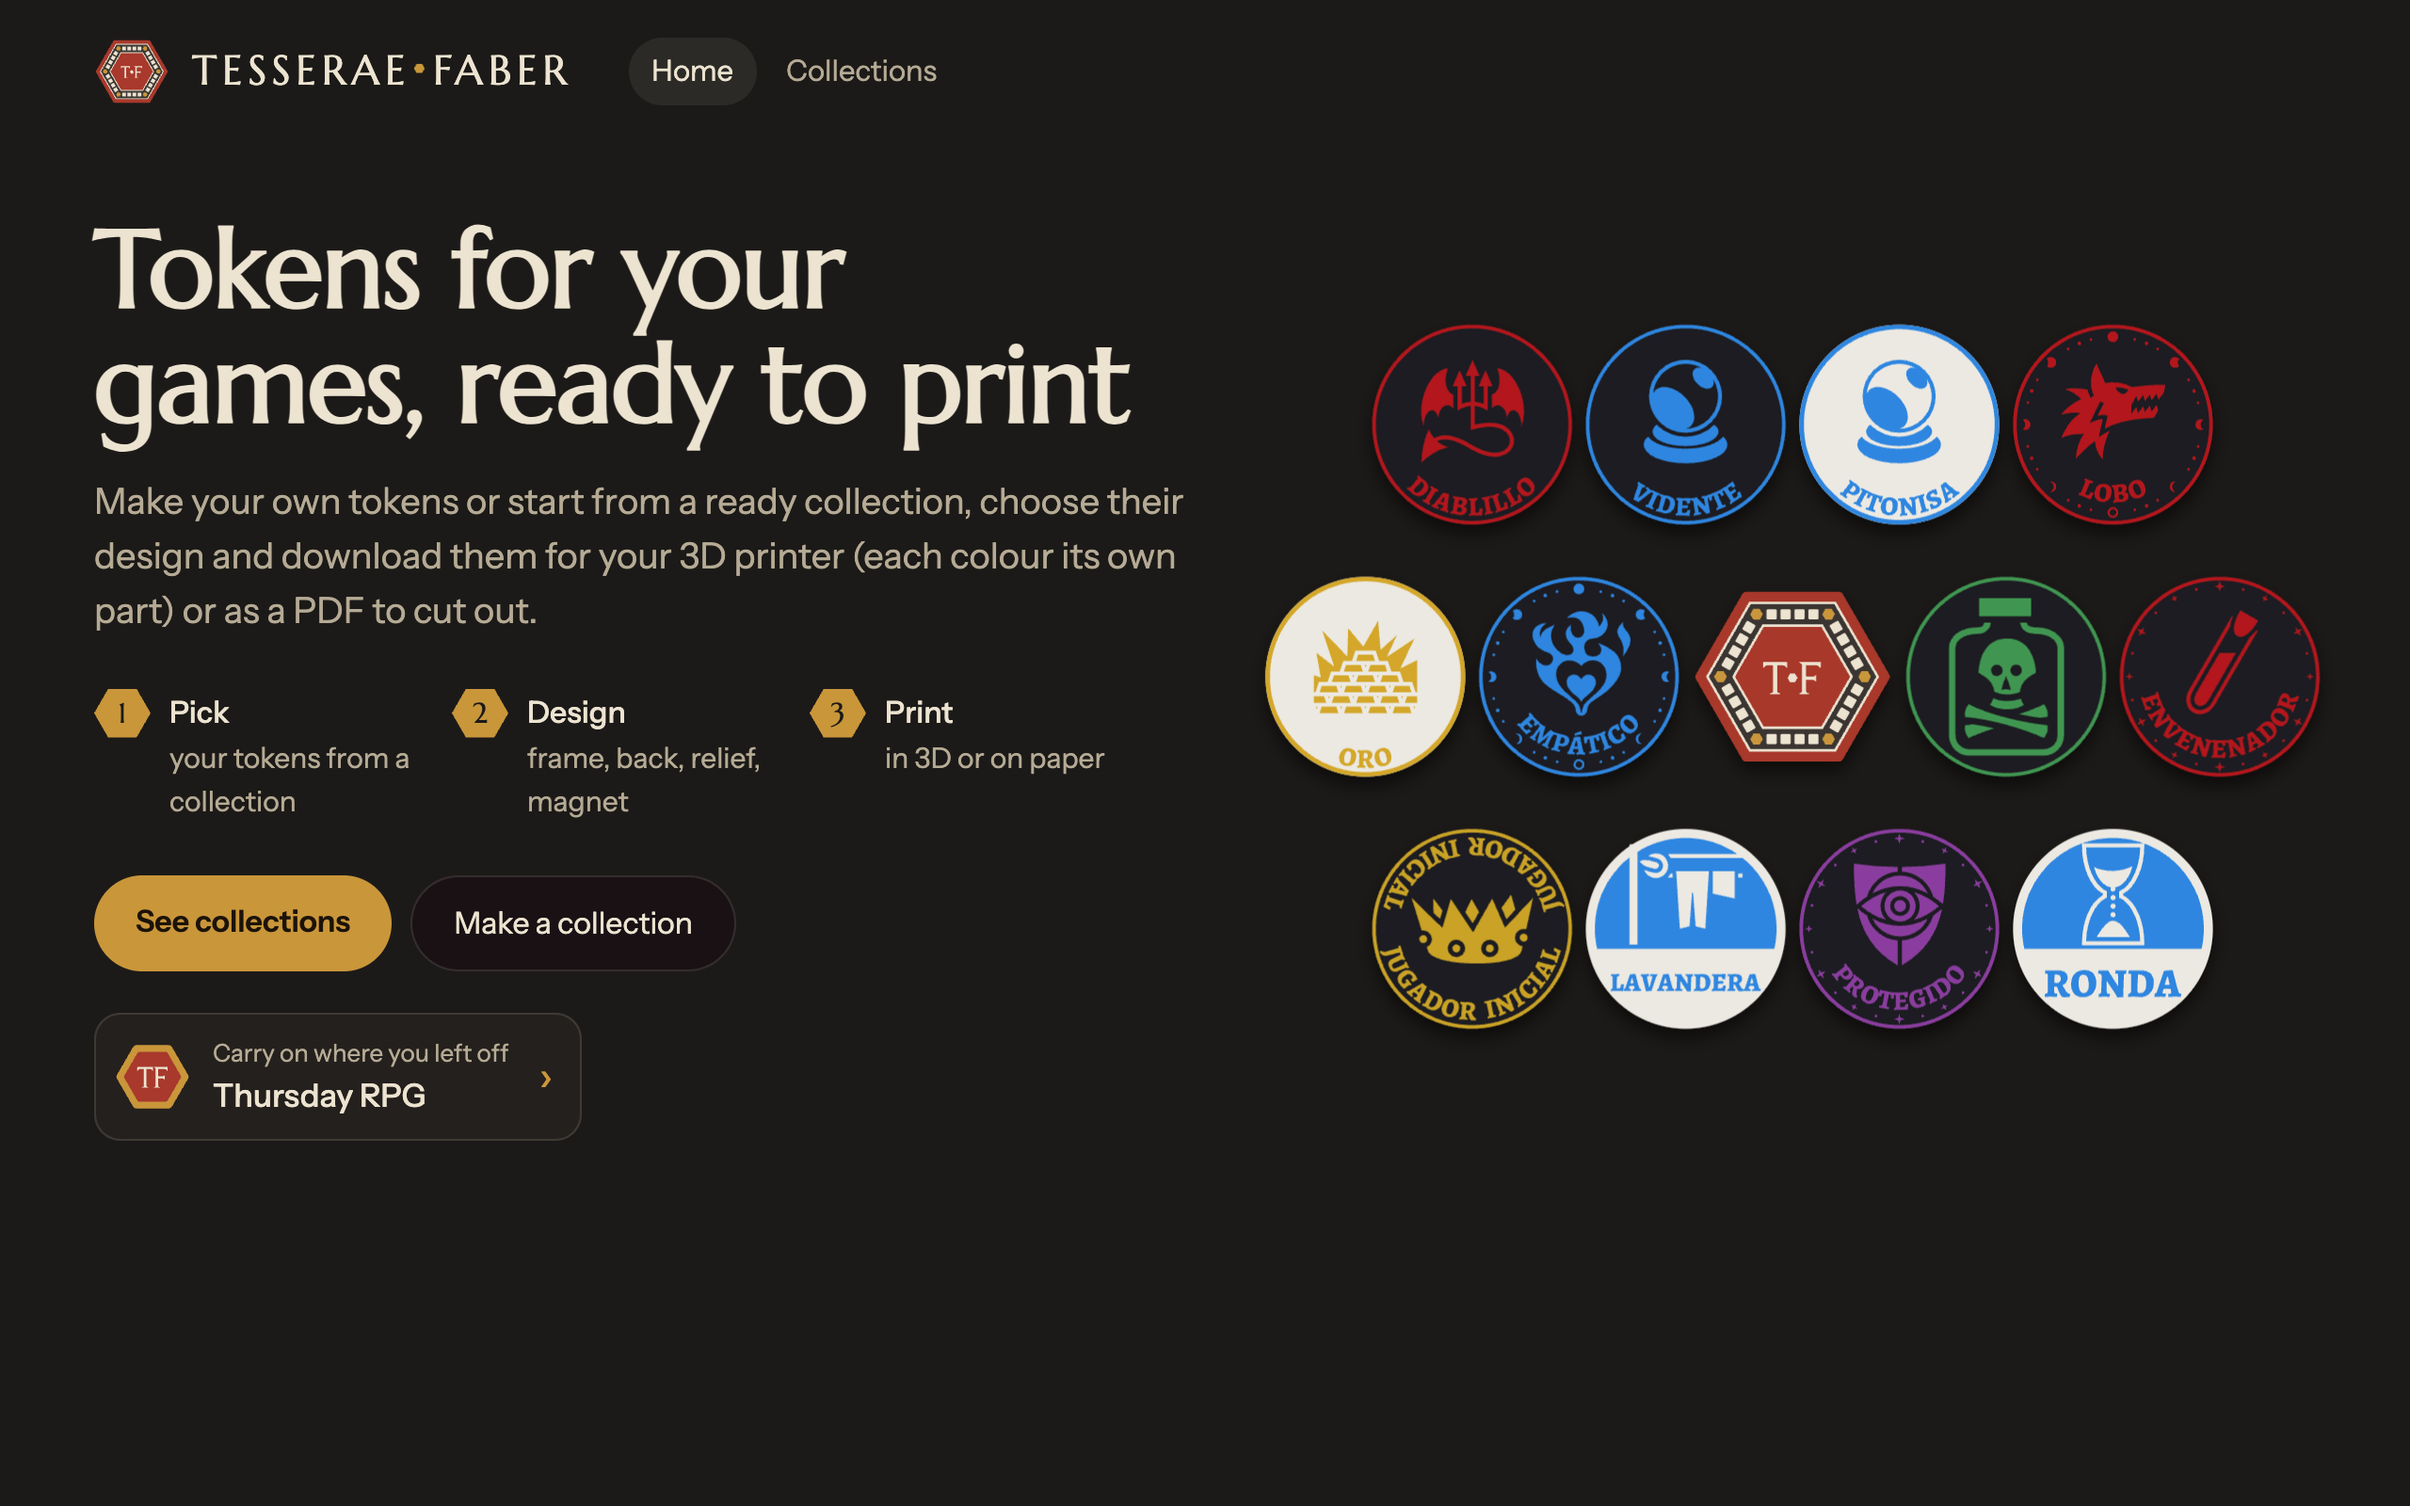
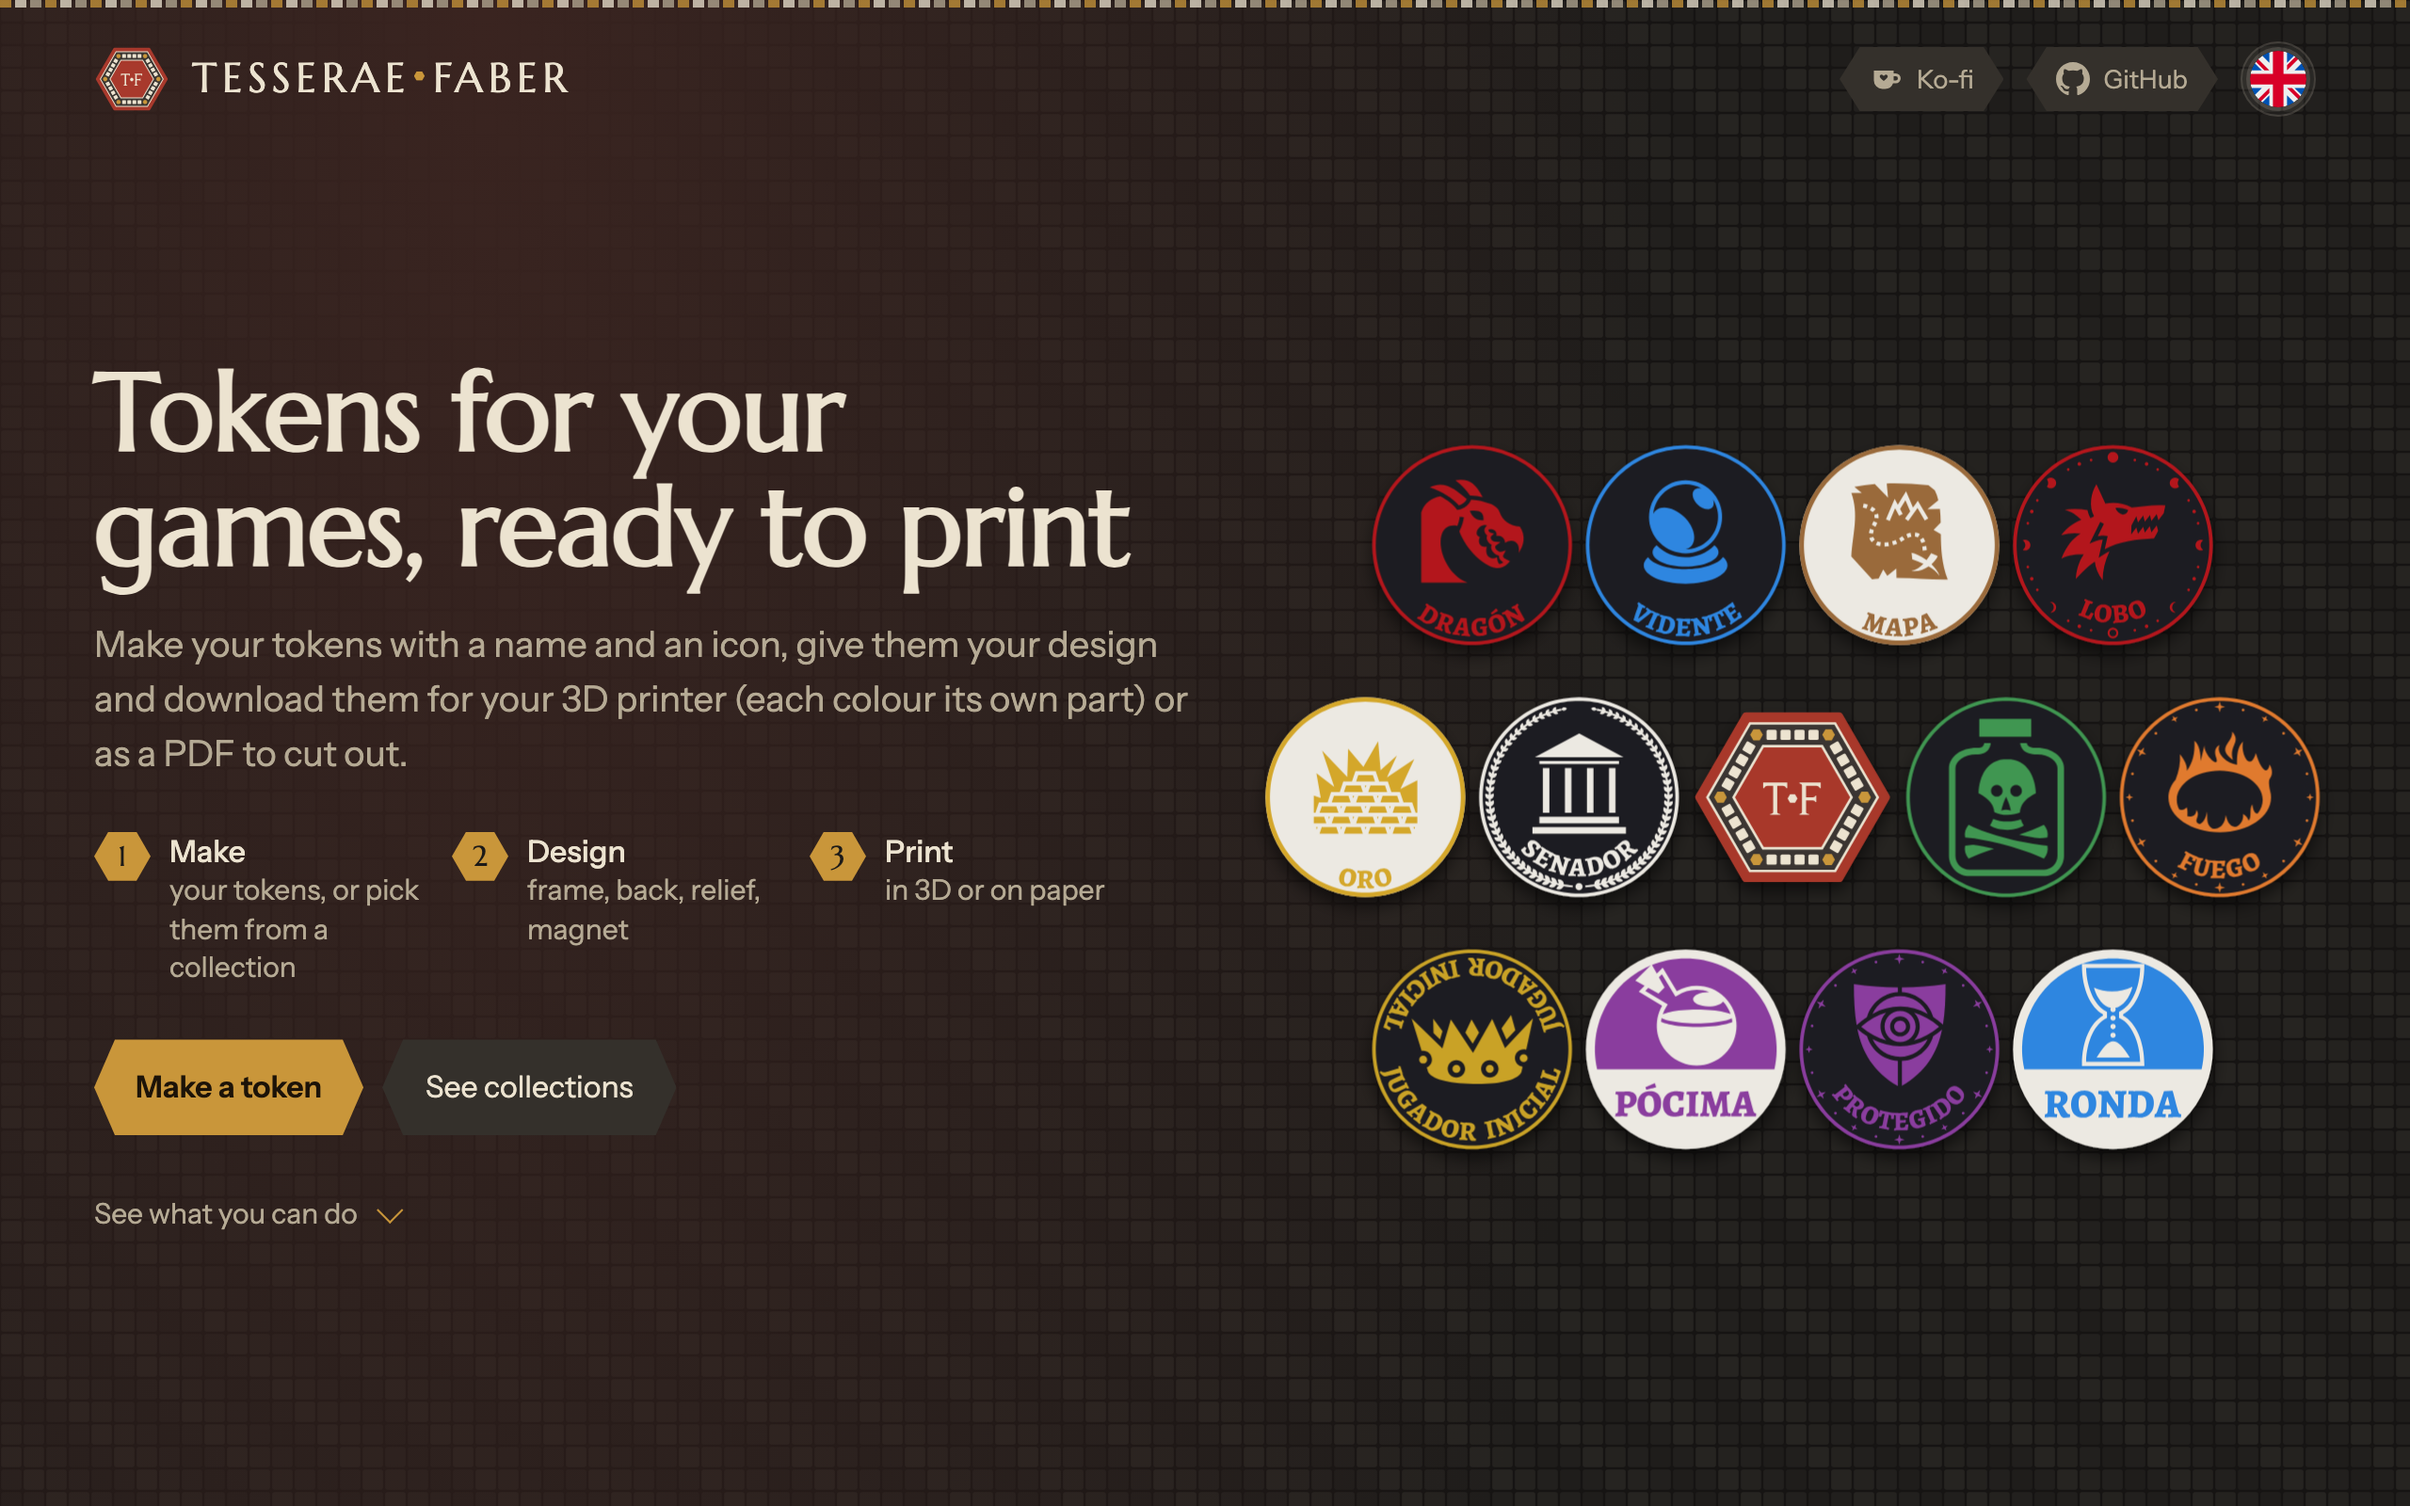
README follows the home as it is now: Make · Design · Print, making your tokens first (or a ready collection), the shapes, designing them (backs too) and printing, in the home's words; its picture taken again.

Changed region(s): [[0.0, 0.0, 1.0, 0.6562], [0.5, 0.2188, 0.9688, 0.7812], [0.0312, 0.6875, 0.25, 0.8125]]

diff --git a/README.md b/README.md
@@ -6,7 +6,7 @@
 
 <p align="center">
   <strong>Tokens for your games, ready to print.</strong><br>
-  Make your own tokens or start from a ready collection, choose their design and download them<br>
+  Make your tokens with a name and an icon, give them your design and download them<br>
   for your 3D printer (each colour its own part) or as a PDF to cut out.
 </p>
 
@@ -22,43 +22,63 @@
   <img src="docs/screenshots/tf-home.png" alt="Tesserae Faber's home: tokens for your games, ready to print" width="820">
 </p>
 
-## Pick · Design · Print
+## Make · Design · Print
 
-1. **Pick** your tokens: make them yourself (a name, an icon from game-icons.net or your own SVG, a colour group),
-   or tick them in a ready collection.
-2. **Design** them: colours, frame, background pattern, back, relief, a hole for a magnet. Change something and the
-   token changes at once.
-3. **Print** them: a Bambu Studio project with every colour on its filament, STL files for any printer, or an A4 PDF.
+1. **Make** your tokens, or pick them from a collection.
+2. **Design** them: frame, back, relief, magnet.
+3. **Print** them, in 3D or on paper.
 
-Free, no account, no ads: your collections and designs stay in your browser.
+## Make your tokens
 
-## Ready collections
+Name each token and find its icon among the thousands on [game-icons.net](https://game-icons.net), or upload your own
+SVG. Sort them into groups, each in its own colour.
 
-- ***El Senado***: a hidden-role game in Rome, adapted from Secret Hitler.
-- ***5e Fantasy***: conditions, spells and markers, from the SRD 5.2.
-- ***Draw Steel***: hero resources, Malice, Victories and conditions.
+Your tokens are kept in this browser, together in a collection you can give a name, a logo and colours. Export it to a
+file to share it or carry on on another device.
+
+**Or start from a ready collection**, with its tokens, its groups and designs made for it:
+
+- ***El Senado***: a hidden-role game in Rome.
+- ***5e Fantasy***: conditions, spells and markers.
+- ***Draw Steel***: hero resources and conditions.
 
 ## Coins, cards, rings and bases
 
+Not everything is a coin. A collection can have each kind, and each kind is designed and printed its own way.
+
 | | |
 |---|---|
-| **Coins** | 30 to 60 mm, with a front and a back |
+| **Coins** | 30 to 60 mm |
 | **Cards** | 85 × 55 mm, with their phrase, their icon and their back |
-| **Rings** | slip round a miniature's base (25 to 50 mm), the condition all the way round |
-| **Bases** | a tray the miniature stands in, with a number or a name on the tab |
+| **Rings** | slip round a miniature's base (25 to 50 mm), with its condition all the way round |
+| **Bases** | trays the miniature's base sits in, with a number or a name on the tab |
 
-## Your designs
+## Design them
 
-A design sets how every token looks at once. Make yours in **Your designs**, from scratch, from a template or from
-another of yours, and use it in any collection. Frames of all kinds (laurel, beads, runes, rope…), patterns, five
-layouts, a raised name, frame or icon to feel by touch, and a magnet open or hidden inside.
+A design sets how every token looks at once: colours, frame, lettering, back. Change something and the token changes
+at once: what you see is what you'll print.
 
-## Printing
+- Frames of all kinds: laurel, beads, runes, rope, moon phases…
+- Background patterns, such as harlequin, scales or quartered.
+- A raised name, frame or icon, to feel them by touch.
+- A hole for a magnet, open or hidden inside.
+- The back too: one for them all, so nobody can tell which token it is, or the token's other face, like a vote that
+  says yes on one side and no on the other.
 
-- **Bambu Lab A1 / A1 mini with AMS lite**: a ready `.3mf`, plates laid out, each part on its filament, magnet pauses
-  included, with the filament and time each plate will take.
-- **Any other printer**: STL files, one per colour.
-- **Paper**: a double-sided A4 PDF at real size, each back behind its front.
+Your designs work in any collection: start one from scratch, from a collection's or from another of yours.
+
+## Print them
+
+- **Each colour, its own part**: a Bambu Studio project with the plates laid out and each part of the token on its
+  filament. Open it, slice it and print. For the A1 and A1 mini with the AMS lite; any other printer gets STL files,
+  one per colour.
+- **Or on paper, to cut out**: an A4 PDF with the tokens at their real size, each back placed so that, printed
+  double-sided, it lands behind its token.
+
+## Free and open source
+
+No accounts, no ads: your collections and designs stay in your browser. If you'd like to support the project, you can
+do so on [Ko-fi](https://ko-fi.com/rexuswolf).
 
 ---
 
